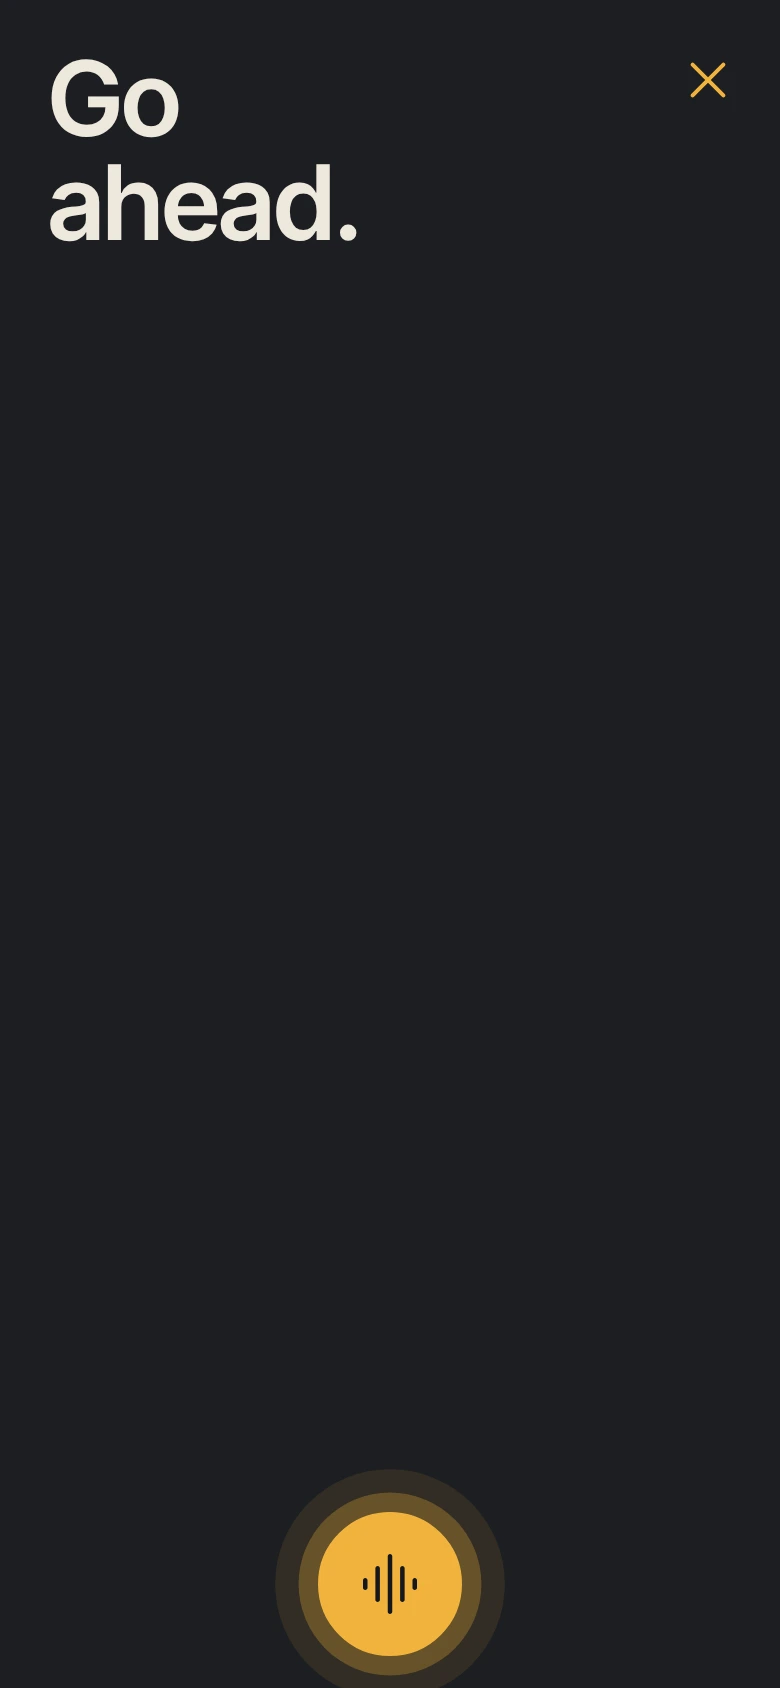
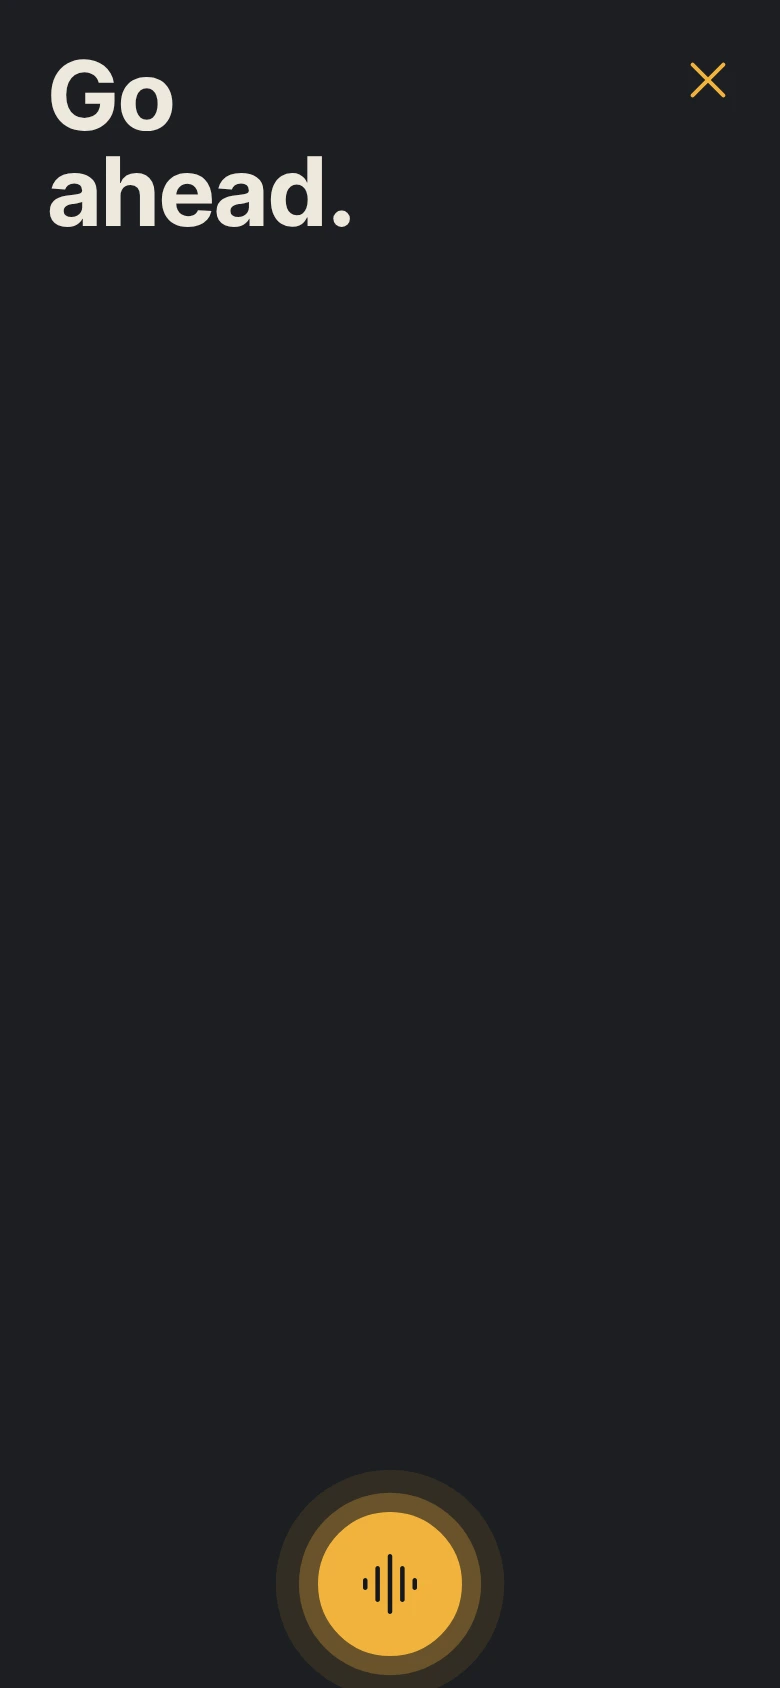
Screens and onboarding images from the live app with real map tiles
Blue Gate tiles saved via Chrome into the listing source and served locally to the captures,
so the site screens and onboarding maps show solid Decent zones, current badges and buttons.
Offline cache to relay-v11.

Claude-Session: https://claude.ai/code/session_01P1qx1SHyXgDY1AuiAuT1Fr

Changed region(s): [[0.0615, 0.0308, 0.4615, 0.154]]

diff --git a/android-release/play-listing/source/recapture.js b/android-release/play-listing/source/recapture.js
@@ -1,7 +1,7 @@
 // Re-captures the four listing screens from the current app (www/index.html), so their text is in the app's current font.
-// The workspace can't load MetaForge's map tiles, so each map area is taken from the earlier capture of the same screen
-// (pixel-4nov/screen-*.webp, 780 x 1688, taken on the Pixel): the answer text, buttons, credit and dock come from the live app.
-// Run from this folder:  cp pixel-4nov/screen-*.webp . && node recapture.js && python3 composite.py && node render.js && python3 finish.py
+// The workspace can't reach MetaForge, so the Blue Gate tiles these screens need are kept in tiles/ (fetched through Chrome on 5 Nov)
+// and served to the page locally: every pixel, map included, comes from the live app.
+// Run from this folder:  node recapture.js && python3 composite.py && node render.js && python3 finish.py
 // Then copy the four screen-*.webp to site/beta/screens/ so the site matches.
 const path = require('path');
 const { chromium } = require('playwright');
@@ -18,7 +18,13 @@ const SHOTS = [
   const rects = {};
   for (const s of SHOTS) {
     const p = await ctx.newPage();
-    await p.route(/^https?:/, r => r.abort());
+    await p.route(/^https?:/, r => {  // Blue Gate tiles come from tiles/ (saved from MetaForge, 5 Nov); everything else stays offline
+      const m = r.request().url().match(/maps\/blue-gate\/[^/]+\/(\d+\/\d+\/\d+\.webp)$/);
+      const f = m && path.join(__dirname, 'tiles/blue-gate', m[1]);
+      if (f && require('fs').existsSync(f)) return r.fulfill({ path: f, contentType: 'image/webp' });
+      r.abort();
+    });
+    await p.addInitScript(() => { try { localStorage.setItem('relay-onb', '1'); } catch (e) {} });  // past onboarding
     await p.goto(APP); await p.waitForTimeout(1500);
     await p.evaluate(() => { const el = document.getElementById('sppack'); if (el) el.hidden = true; });
     await p.evaluate(async (s) => {

diff --git a/www/sw.js b/www/sw.js
@@ -1,5 +1,5 @@
 /* Spottr: cache the app shell so it opens without a connection. Map tiles are not cached. */
-const C = "relay-v10";
+const C = "relay-v11";
 const FILES = ["./", "index.html", "onboard-find.webp", "onboard-exit.webp", "data-bluegate.js", "data-bluegate-places.js", "data-dam.js", "data-buried-city.js", "data-spaceport.js", "data-stella-montis.js", "data-riven-tides.js", "data-pendola-pass.js", "data-zones.js", "fonts/inter-tight-400.woff2", "fonts/inter-tight-500.woff2", "fonts/inter-tight-600.woff2", "fonts/inter-tight-700.woff2", "leaflet.js", "leaflet.css", "manifest.webmanifest", "icons/icon-192.png", "icons/icon-512.png"];
 self.addEventListener("install", e => { e.waitUntil(caches.open(C).then(c => c.addAll(FILES)).then(() => self.skipWaiting())); });
 self.addEventListener("activate", e => { e.waitUntil(caches.keys().then(ks => Promise.all(ks.filter(k => k !== C).map(k => caches.delete(k)))).then(() => self.clients.claim())); });

diff --git a/android-release/play-listing/source/composite.py b/android-release/play-listing/source/composite.py
@@ -1,31 +1,14 @@
-"""Puts the earlier captures' map areas into the fresh captures (see recapture.js), then saves screen-*.webp for shot.html."""
+"""Saves the fresh captures from recapture.js as screen-*.webp (for shot.html and site/beta/screens/),
+and the map areas of the exit and find screens as the app's onboarding images (www/onboard-*.webp, 684 x 962)."""
 import json
 from PIL import Image
 rects = json.load(open("rects.json"))
 for k in ["3-exit", "4-find", "5-pin", "2-listening"]:
-    new = Image.open("new-%s.png" % k).convert("RGB")
-    r = rects.get("new-" + k)
-    if r:
-        old = Image.open("screen-%s.webp" % k).convert("RGB").resize(new.size)
-        box = tuple(int(round(v * 2)) for v in (r["x"], r["y"], r["x"] + r["w"], r["y"] + r["h"]))
-        new.paste(old.crop(box), box[:2])
-    new.save("screen-%s.webp" % k, quality=92)
-    print(k, new.size)
-
-# the pin screen's "I'm here" pill sits on the map: take it from the fresh capture so it is in the current font
-pin = Image.open("new-5-pin.png").convert("RGB"); comp = Image.open("screen-5-pin.webp").convert("RGB")
-r = rects["new-5-pin"]; x0, y0, x1, y1 = [int(v * 2) for v in (r["x"], r["y"], r["x"] + r["w"], r["y"] + r["h"])]
-px = pin.load(); amber = lambda c: c[0] > 220 and 150 < c[1] < 205 and c[2] < 100
-rows = [y for y in range(y1 - int((y1 - y0) * .25), y1) if sum(amber(px[x, y]) for x in range(x0, x1)) > 120]  # the pill is the only wide amber run
-pts = [(x, y) for y in rows for x in range(x0, x1) if amber(px[x, y])]
-if pts:
-    box = (min(p[0] for p in pts) - 3, min(p[1] for p in pts) - 3, max(p[0] for p in pts) + 4, max(p[1] for p in pts) + 4)
-    comp.paste(pin.crop(box), box[:2]); comp.save("screen-5-pin.webp", quality=92); print("pill", box)
-
-# "Maps by MetaForge" sits on the map too: take it from the fresh captures (its backing is near-opaque charcoal)
-for k in ["3-exit", "4-find", "5-pin"]:
-    c = rects.get("new-%s-credit" % k)
-    if not c: continue
-    fresh = Image.open("new-%s.png" % k).convert("RGB"); comp = Image.open("screen-%s.webp" % k).convert("RGB")
-    box = tuple(int(round(v * 2)) for v in (c["x"], c["y"], c["x"] + c["w"], c["y"] + c["h"]))
-    comp.paste(fresh.crop(box), box[:2]); comp.save("screen-%s.webp" % k, quality=92); print("credit", k, box)
+    im = Image.open("new-%s.png" % k).convert("RGB")
+    im.save("screen-%s.webp" % k, quality=92)
+    print(k, im.size)
+for k, out in [("3-exit", "onboard-exit"), ("4-find", "onboard-find")]:
+    r = rects["new-" + k]
+    box = tuple(int(round(v * 2)) for v in (r["x"], r["y"], r["x"] + r["w"], r["y"] + r["h"]))
+    Image.open("new-%s.png" % k).convert("RGB").crop(box).save("../../../www/%s.webp" % out, quality=90)
+    print(out, box)
